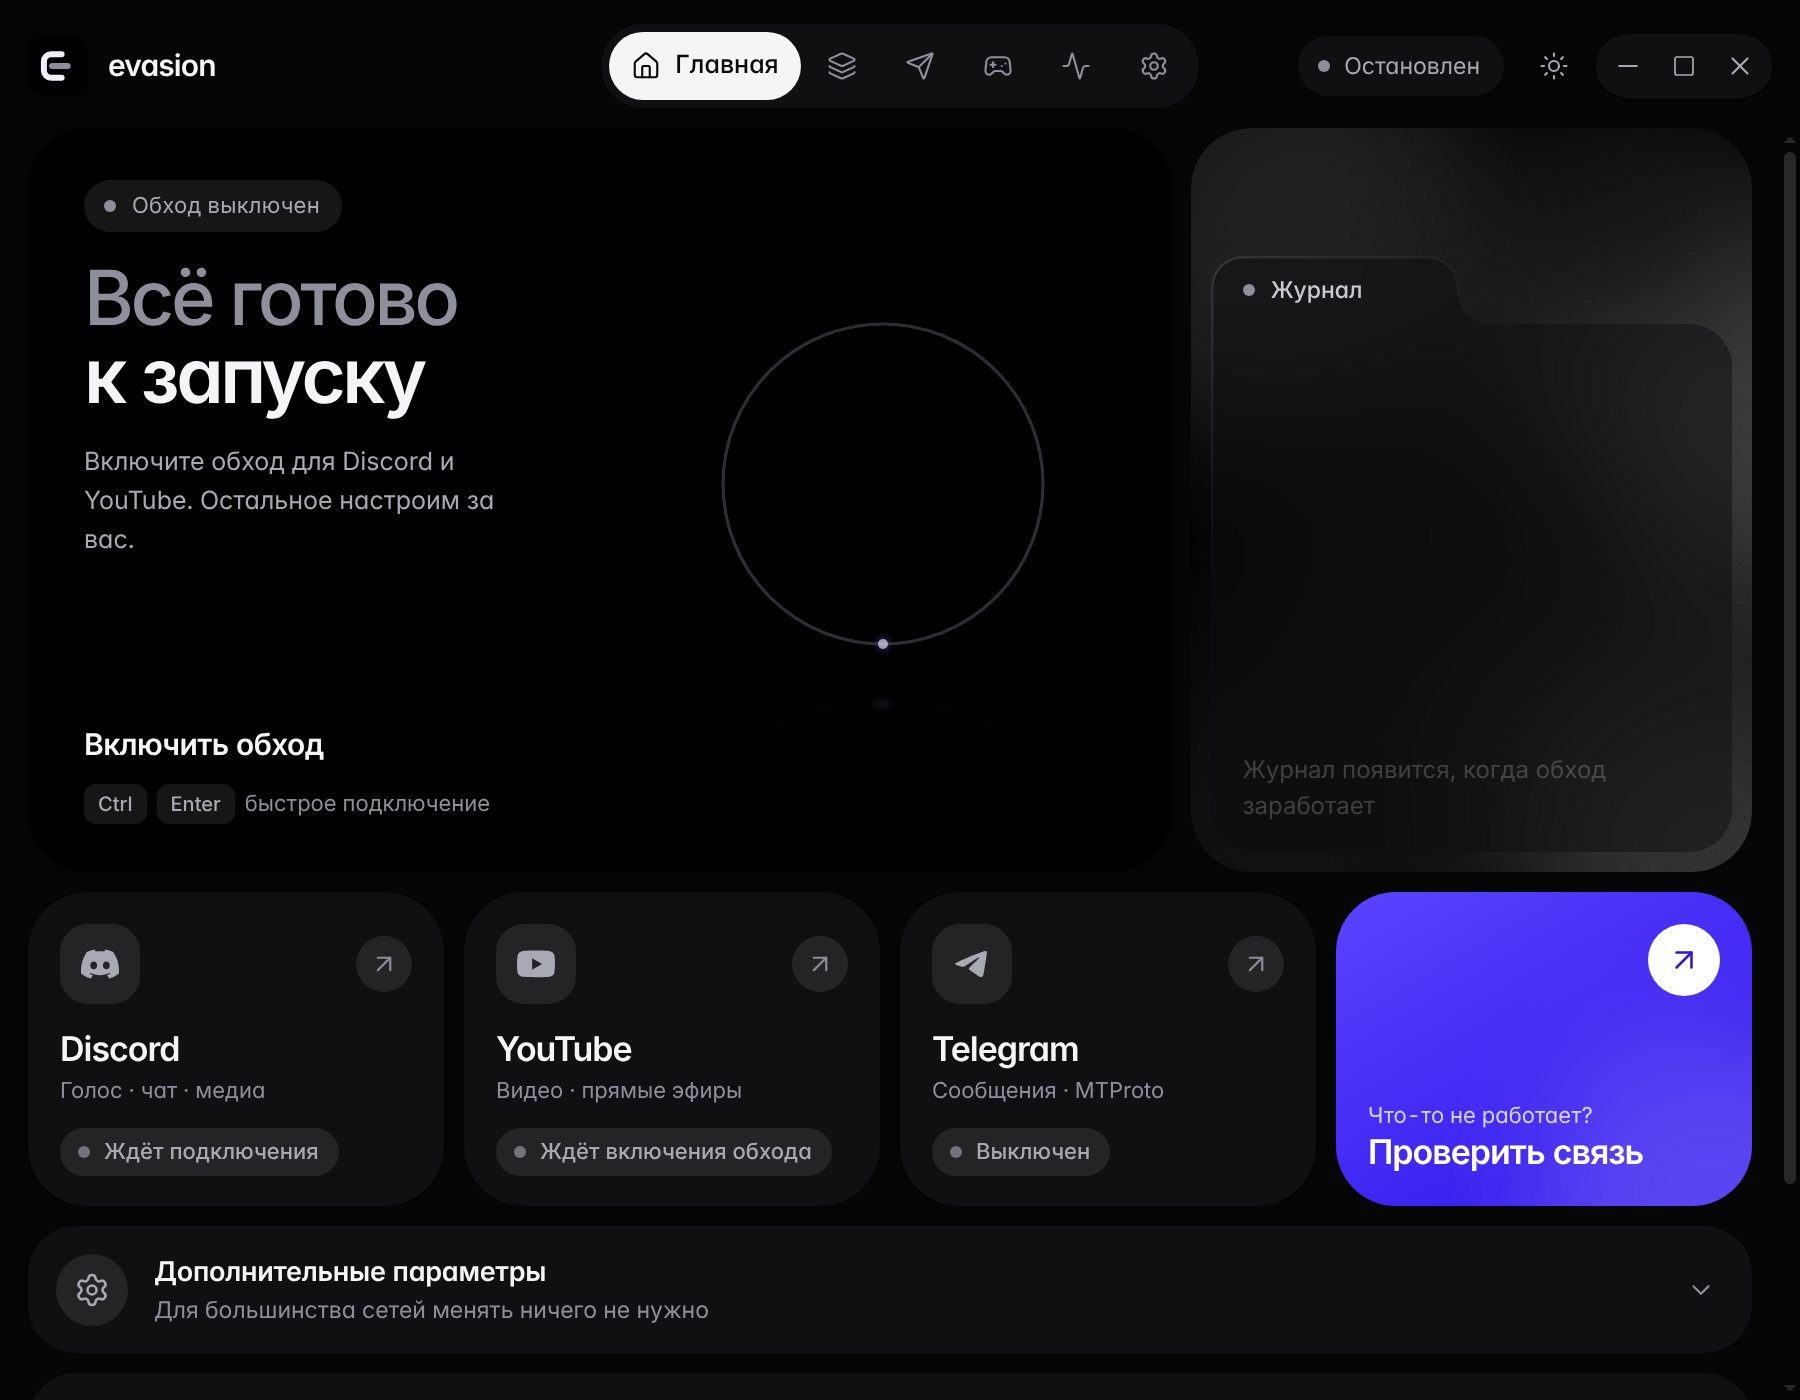
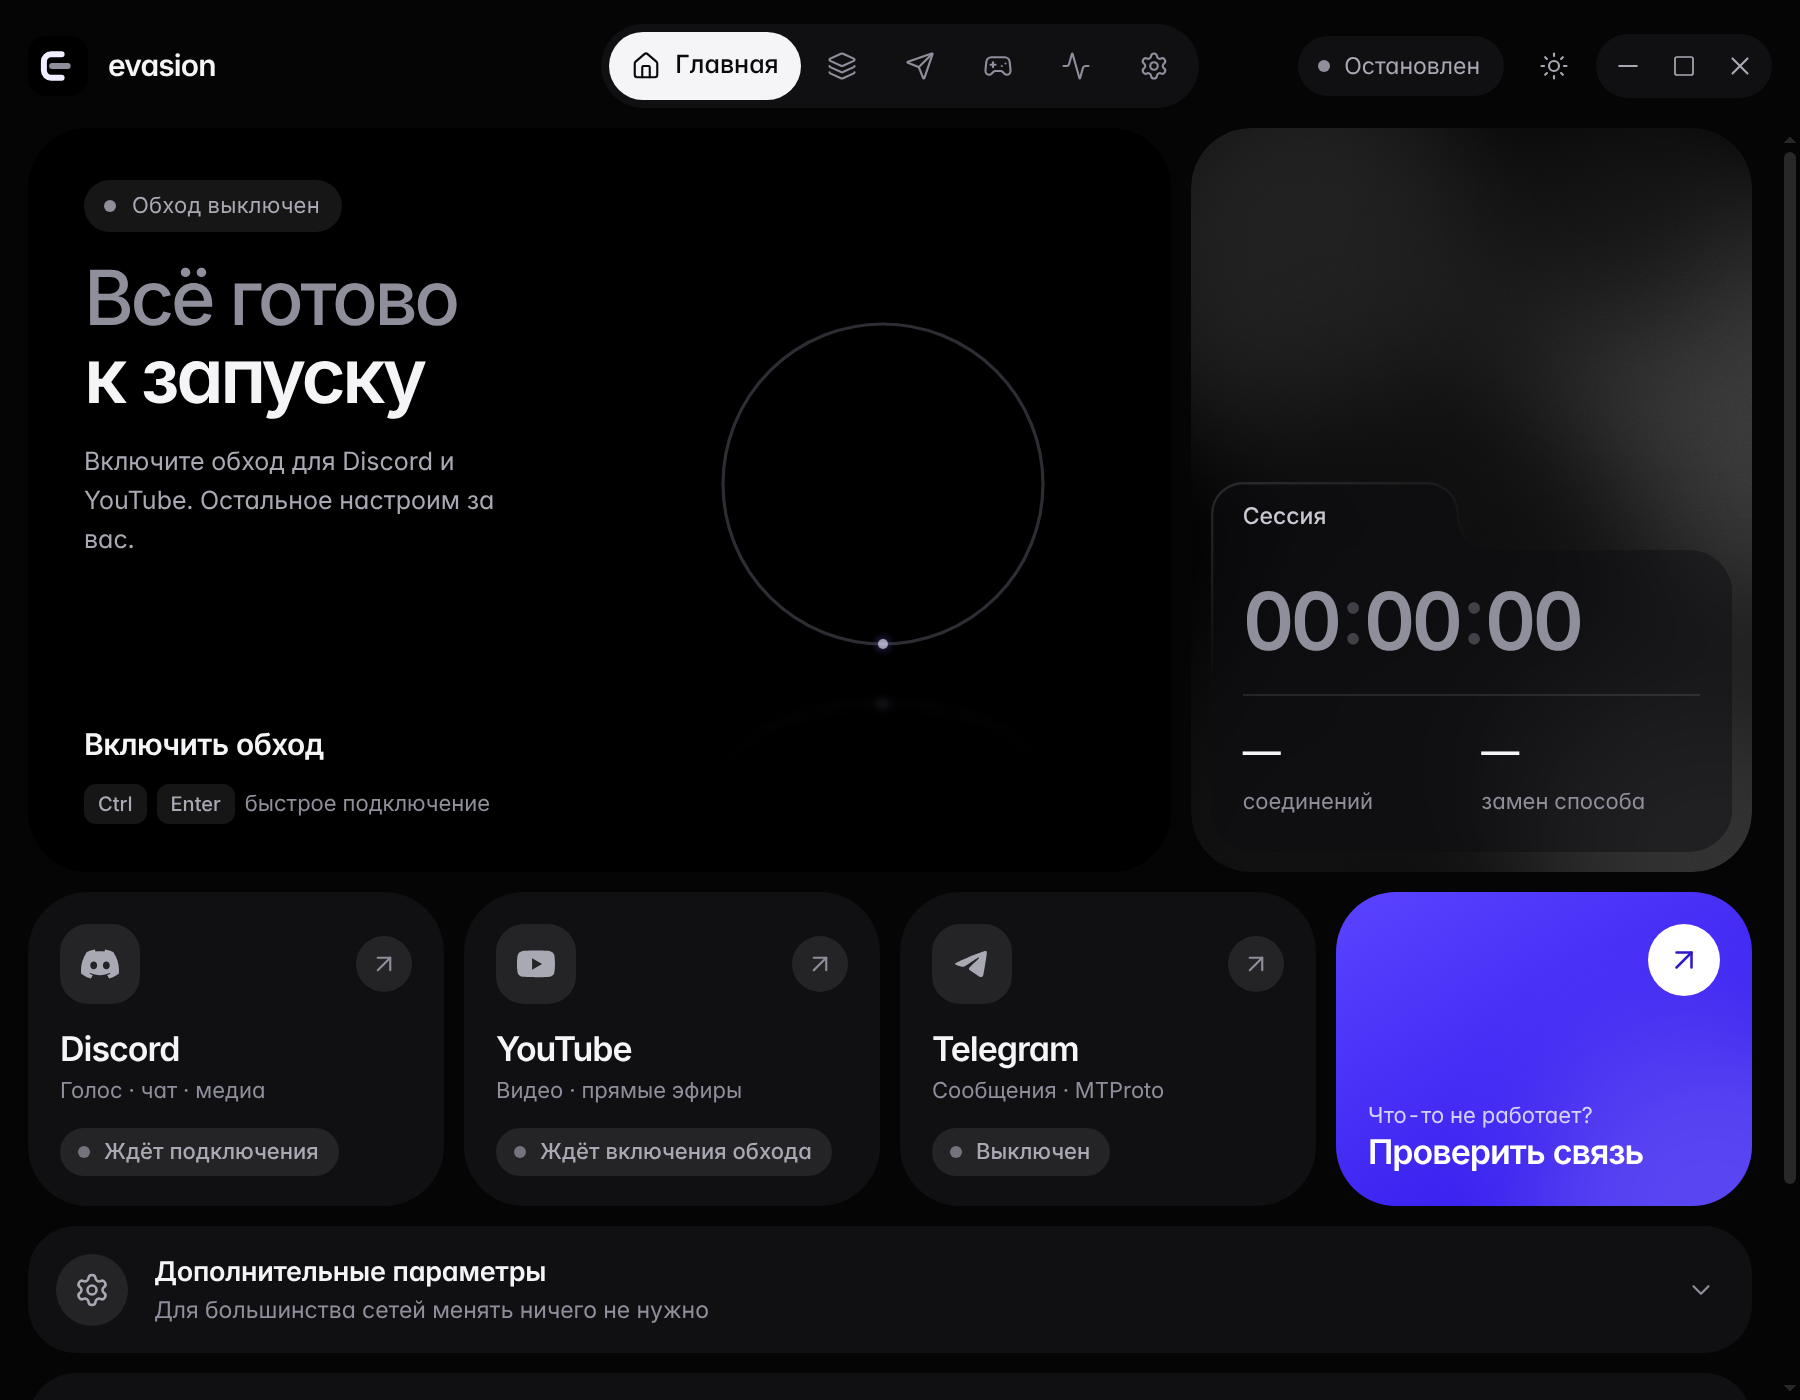
README: pictures follow the session panel with timer and drifting journal

diff --git a/README.md b/README.md
@@ -18,7 +18,7 @@
 </p>
 
 <p align="center">
-  <img src="docs/readme/app-on.png" alt="Главное окно Evasion: обход включён, журнал подключения идёт в цветной панели, Discord, YouTube и Telegram доступны" width="820">
+  <img src="docs/readme/app-on.png" alt="Главное окно Evasion: обход включён, идёт сессия, за таймером плывёт журнал простыми словами, Discord, YouTube и Telegram доступны" width="820">
 </p>
 
 ## Что умеет
@@ -57,7 +57,7 @@
 3. **Нажмите на кольцо.** Через несколько секунд загорится «Вы подключены».
 
 <p align="center">
-  <img src="docs/readme/power-on.webp" alt="Анимация включения: кольцо загорается, в панели журнала появляются события" width="440">
+  <img src="docs/readme/power-on.webp" alt="Анимация включения: кольцо загорается, запускается таймер сессии, за ним плывёт журнал" width="440">
 </p>
 
 > [!NOTE]
